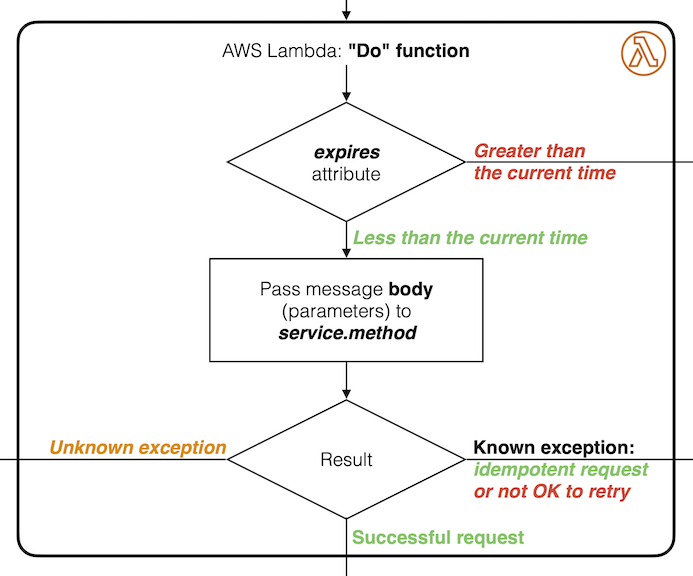
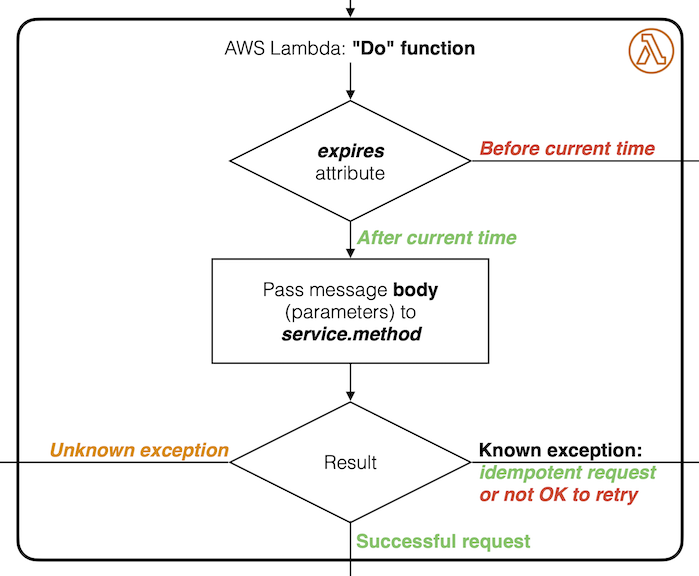
ReadMe: Architecture diagram correction (#21)
- Correctly labels the "expires < now" comparison outcomes.

  As a former math teacher I've thought often about how to write inequalities
  (and also Boolean expressions) in ways that make them naturally readable,
  easier to understand, or easier to update without making a mistake -- or
  all three of the above.

  I like to normalize inequalities to less than, instead of having a mix. I
  had done it for the "Do" function long ago:

  [...]if (
    int(msg_attr_str_decode(op_msg, "expires"))
    < int(datetime.datetime.now(datetime.timezone.utc).timestamp())
  ):
    [...]
    result_type = "EXPIRED_OP"

  Humans might read this fairly literally as, "if the message expiration time
  is before the current time, then..." which gives rise to the
  interpretation, "if the message has already expired, then..." Read
  literally, an inequality expressed in the other direction would make sense,
  too: "if the current time is after the expiration time, then..." Our focus,
  however, would be on the current time, not on the expiration time, the
  property of interest.

- Numbers the points in the Logging section

diff --git a/README.md b/README.md
@@ -341,43 +341,47 @@ basic format (example: `20241231T1400Z`).
 
 ## Logging
 
-- Check the
-  [LightsOff CloudWatch log groups](https://console.aws.amazon.com/cloudwatch/home#logsV2:log-groups$3FlogGroupNameFilter$3DLightsOff-).
-  - Log entries are JSON objects.
-    - Lights Off includes `"level"` , `"type"` and `"value"` keys.
-    - Other software components may use different keys.
-  - For more data, change the `LogLevel` in CloudFormation.
-  - Scrutinize log entries at the `ERROR` level.
-    - Both logs:
-      Entries with the `"stackTrace"` key represent unexpected exceptions that
-      require correction. These are unusual.
-    - "Find" log:
-      All other entries at the `ERROR` level require correction.
-    - "Do" log:
-      Some other entries at the `ERROR` level do not require correction.
-      <details>
-        <summary>What to consider when evaluating errors...</summary>
+ 1. Check the
+    [LightsOff CloudWatch log groups](https://console.aws.amazon.com/cloudwatch/home#logsV2:log-groups$3FlogGroupNameFilter$3DLightsOff-).
+    - Log entries are JSON objects.
+      - Lights Off includes `"level"` , `"type"` and `"value"` keys.
+      - Other software components may use different keys.
+    - For more data, change the `LogLevel` in CloudFormation.
+    - Scrutinize log entries at the `ERROR` level.
+      - Both logs:
+        Entries with the `"stackTrace"` key represent unexpected exceptions
+        that require correction. These are unusual.
+      - "Find" log:
+        All other entries at the `ERROR` level require correction.
+      - "Do" log:
+        Some other entries at the `ERROR` level do not require correction.
 
-        The state of an AWS resource might change between the "Find" and "Do"
-        steps; this sequence is fundamentally non-atomic. An operation might
-        also be repeated due to queue message delivery logic; operations are
-        idempotent. If a state change is favorable or an operation is repeated,
-        Lights Off logs success responses or expected exceptions (depending on
-        the AWS service) at the `INFO` level. For RDS database _instance_
-        start/stop operations, however, Lights Off logs expected exceptions at
-        the `ERROR` level because it cannot determine whether they represent
-        actual errors or harmless repetition (such as trying to start a
-        database instance that has already been started).
+        <details>
+          <summary>What to consider when evaluating errors...</summary>
 
-        For complete details, see the technical article
-        [Idempotence: Doing It More than Once](https://sqlxpert.github.io/2025/05/17/idempotence-doing-it-more-than-once.html).
+          The state of an AWS resource might change between the "Find" and "Do"
+          steps; this sequence is fundamentally non-atomic. An operation might
+          also be repeated due to queue message delivery logic; operations are
+          idempotent. If a state change is favorable or an operation is
+          repeated, Lights Off logs success responses or expected exceptions
+          (depending on the AWS service) at the `INFO` level. For RDS database
+          _instance_ start/stop operations, however, Lights Off logs expected
+          exceptions at the `ERROR` level because it cannot determine whether
+          they represent actual errors or harmless repetition (such as trying
+          to start a database instance that has already been started).
 
-      </details>
-- Check the `ErrorQueue`
-  [SQS queue](https://console.aws.amazon.com/sqs/v3/home#/queues)
-  for "Find" and "Do" events that were not delivered, or not fully processed.
-- Check CloudTrail for the final stages of `sched-start` and `sched-backup`
-  operations.
+          For complete details, see the technical article
+          [Idempotence: Doing It More than Once](https://sqlxpert.github.io/2025/05/17/idempotence-doing-it-more-than-once.html).
+
+        </details>
+
+ 2. Check the `ErrorQueue`
+    [SQS queue](https://console.aws.amazon.com/sqs/v3/home#/queues)
+    for "Find" and "Do" events that were not delivered, or not fully
+    processed.
+
+ 3. Check CloudTrail for the final stages of `sched-start` and `sched-backup`
+    operations.
 
 ## Advanced Installation
 
@@ -576,8 +580,9 @@ successfully complete one manual stack update.
 
 Lights Off takes advantage of patterns in boto3, the AWS software development
 kit (SDK) for Python, and in the underlying AWS API. Adding AWS services,
-resource types, and operations is easy. For example, supporting RDS database
-_clusters_ (RDS database _instances_ were already supported) required adding:
+resource types, and operations is easy. For example, supporting Aurora
+database _clusters_ (RDS database _instances_ were already supported) required
+adding:
 
 ```python
     AWSRsrcType(
